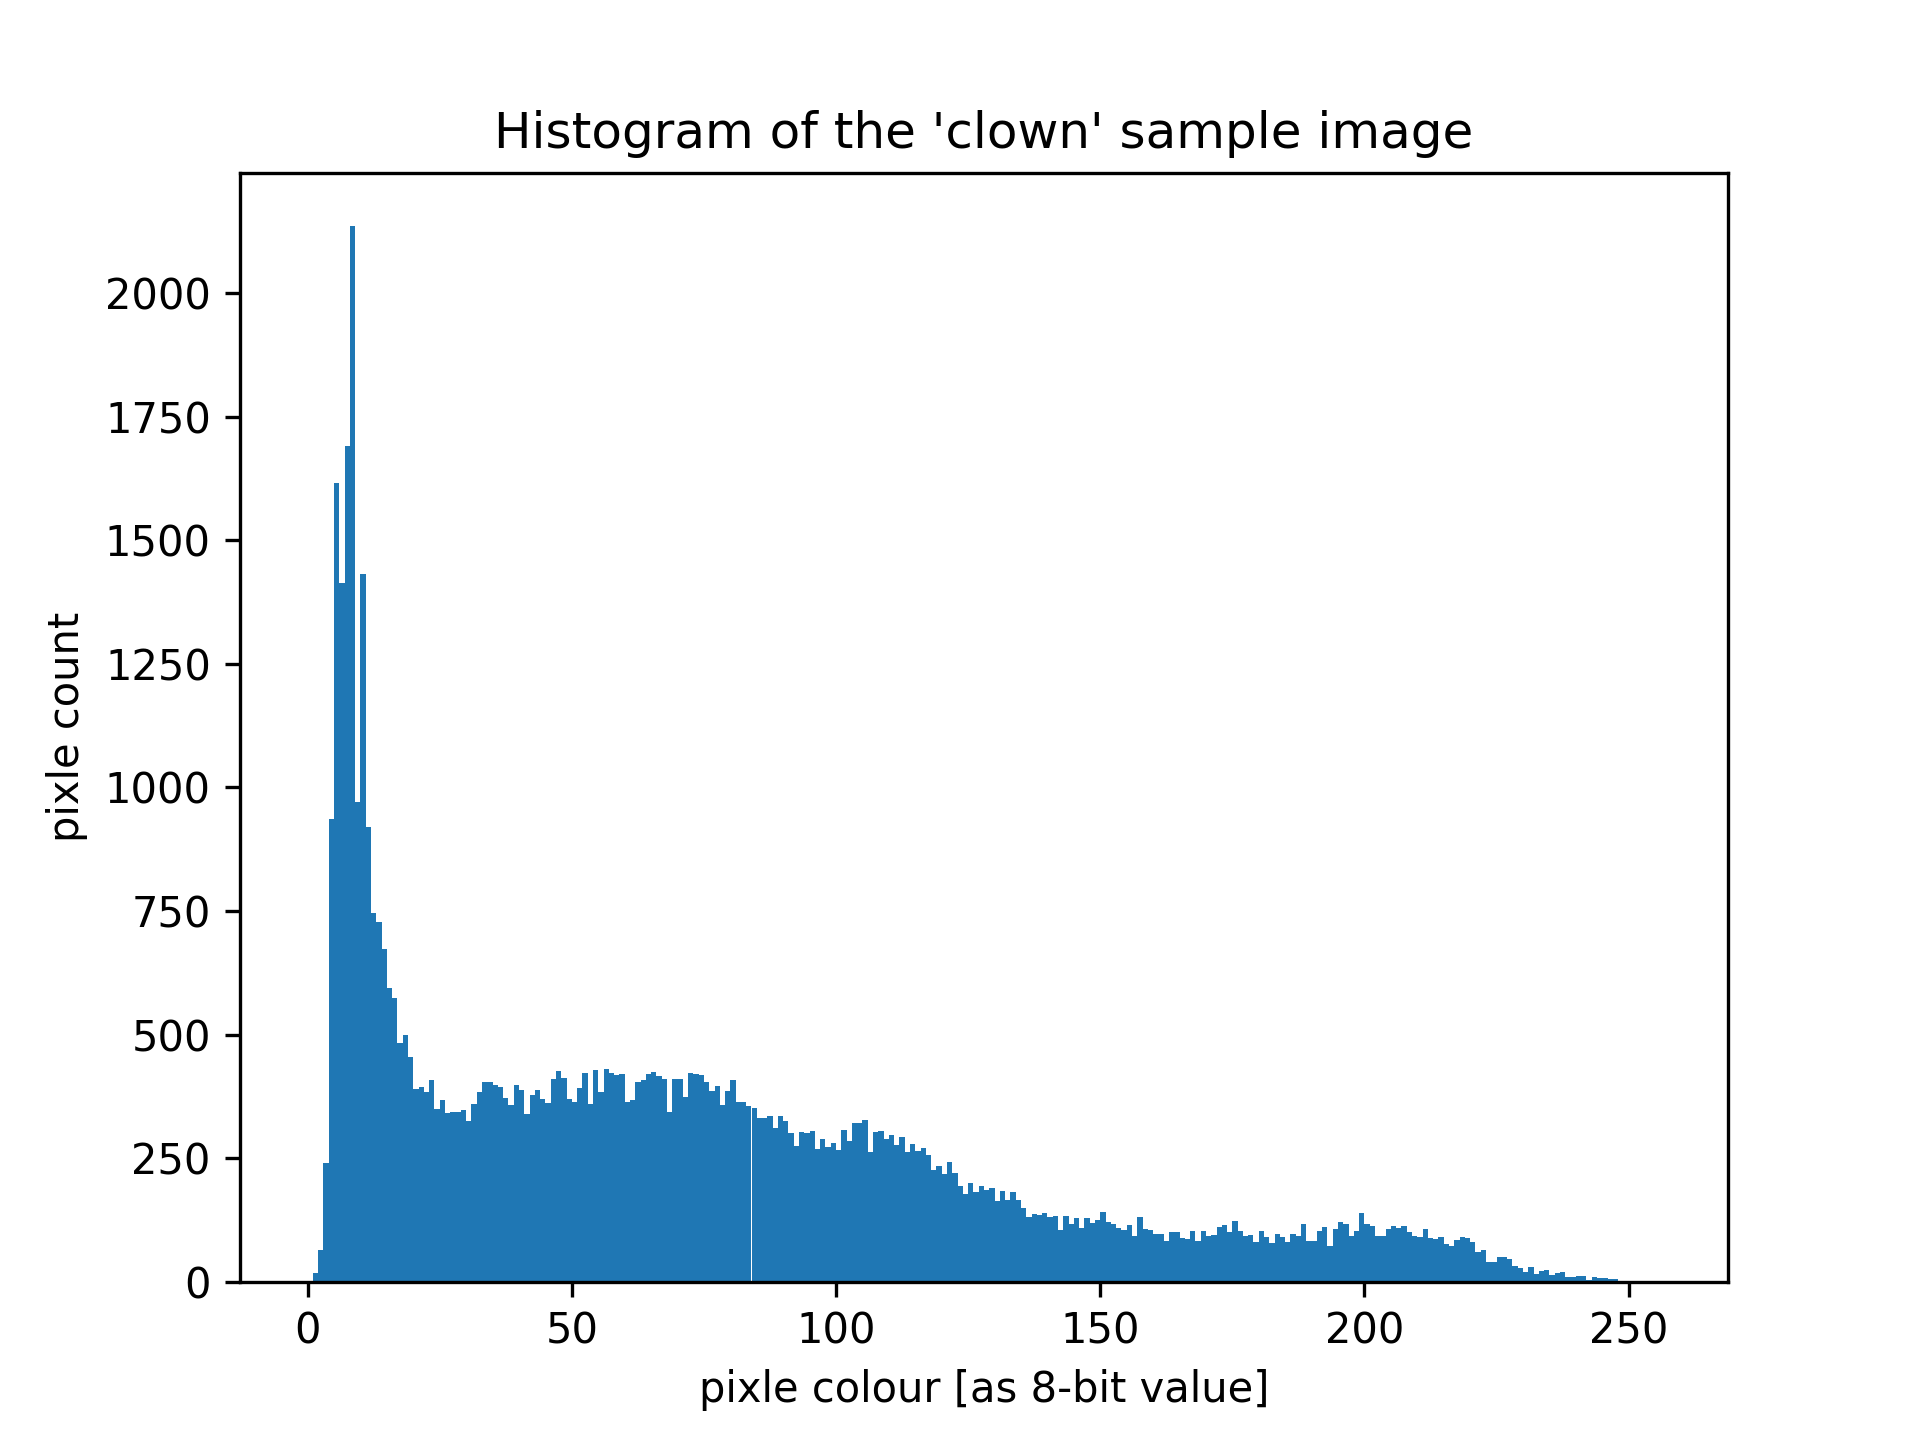
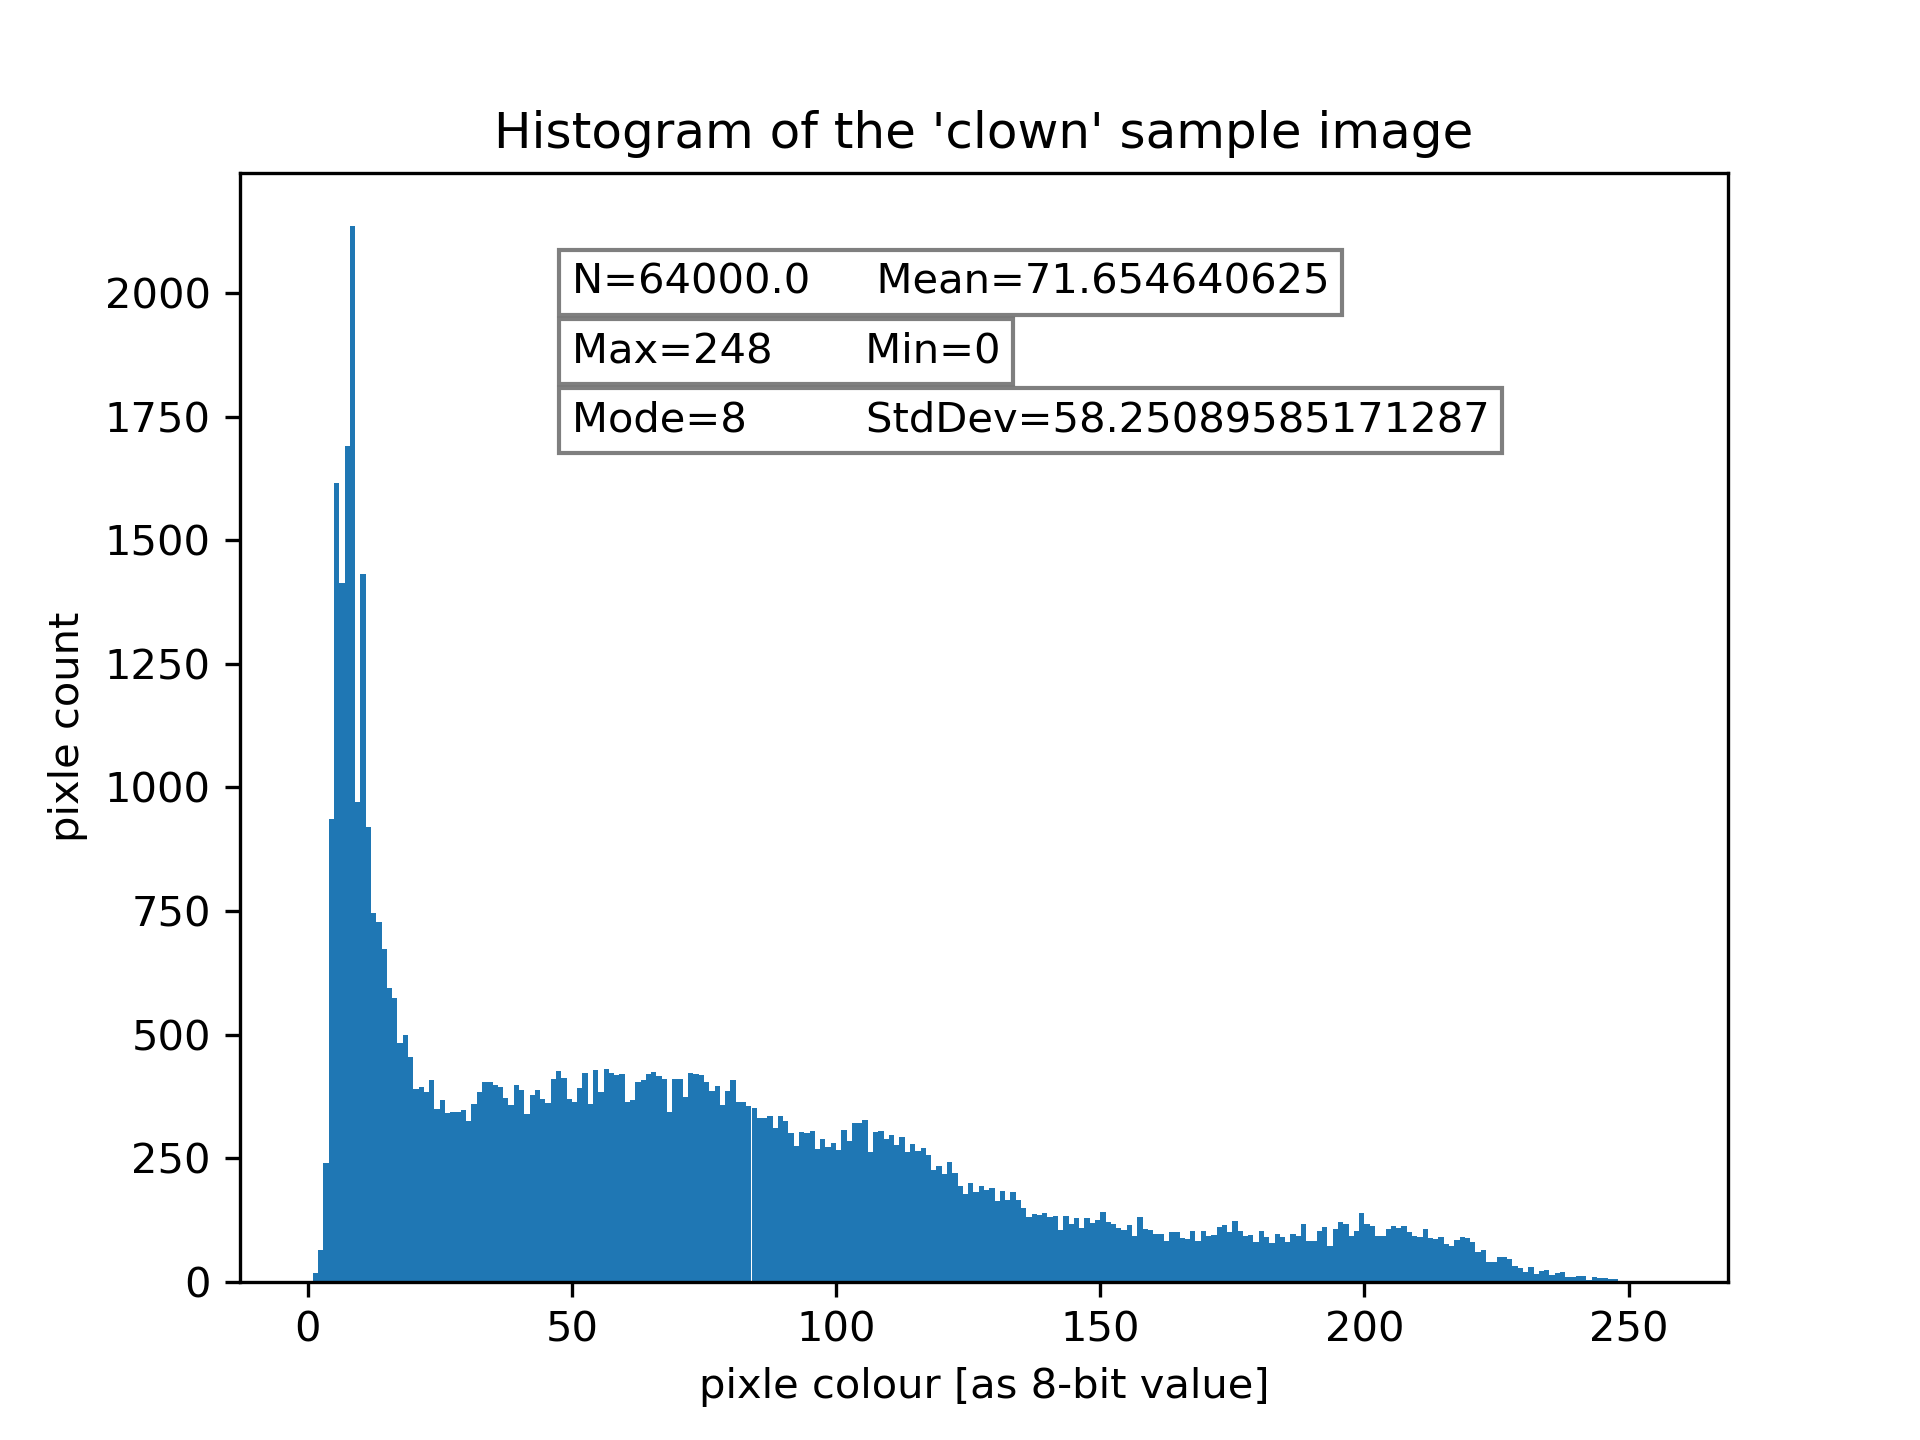
calc + add stats to histogram

diff --git a/plot.py b/plot.py
@@ -1,3 +1,4 @@
+from math import sqrt
 import numpy as np
 import matplotlib.pyplot as plt
 
@@ -11,7 +12,25 @@ value, count = np.loadtxt(
 
 N = np.sum(count)
 Mean = np.sum(value*count)/N
+Max = 0
+Min = 0
+Mode = 0
+for i in range(len(value)):
+    if count[i] != 0:
+        Max = i
+    if count[len(value)-1-i] != 0:
+        Min = len(value)-1-i
+    if count[i] > count[Mode]:
+        Mode = i
+StdDev = sqrt(np.sum((count*(value-Mean)**2))/N)
 
+
+plt.text(50, 2000, f"N={N}     Mean={Mean}",
+    bbox=dict(facecolor="white", alpha=0.5, boxstyle="square"))
+plt.text(50, 1860, f"Max={Max}       Min={Min}",
+    bbox=dict(facecolor="white", alpha=0.5, boxstyle="square"))
+plt.text(50, 1720, f"Mode={Mode}         StdDev={StdDev}",
+    bbox=dict(facecolor="white", alpha=0.5, boxstyle="square"))
 
 
 plt.bar(value, count, width=1, align="edge")
